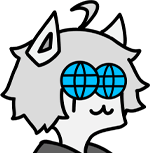
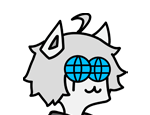
。

diff --git a/blog/日常.html b/blog/日常.html
@@ -8,7 +8,7 @@ redirect_from:
 footer_fxx: 日常
 pinglun: 1
 toutu: 1
-footer_img: cs/sw
+footer_img: cs/sw","cs/lbxx
 ---
 <style>
 @media screen and (min-width: 450px){ /*电脑*/
